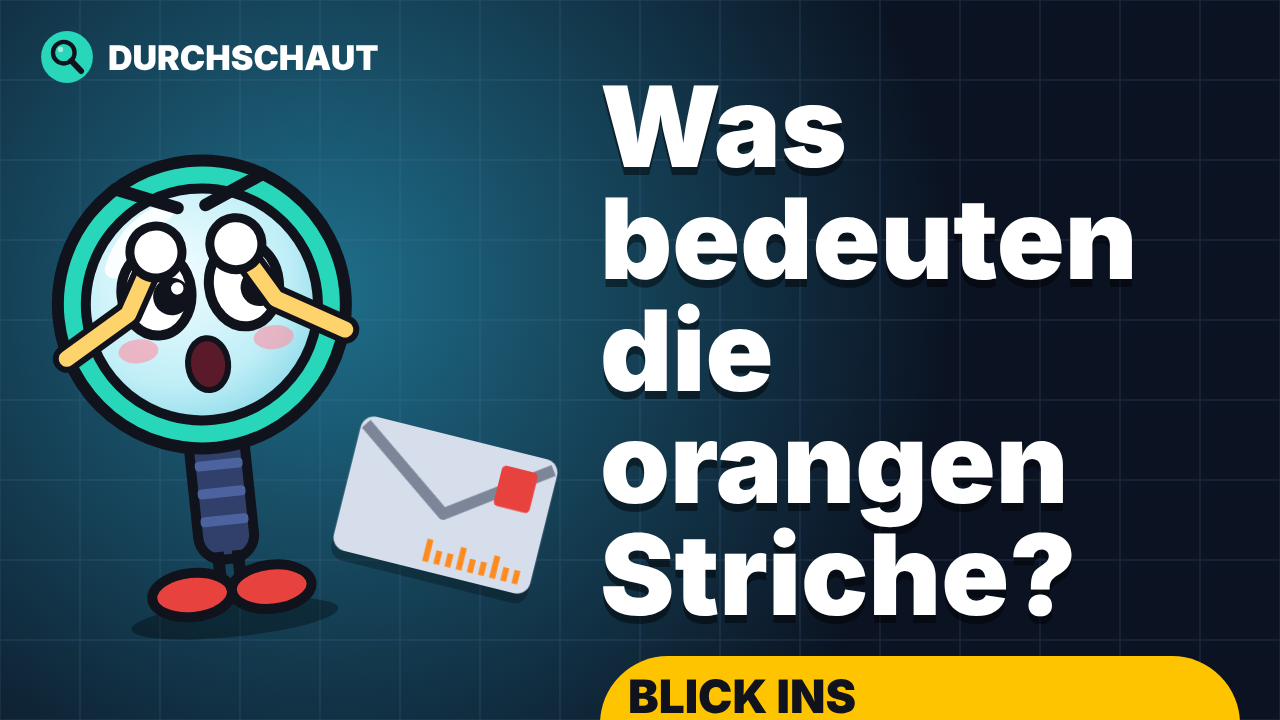
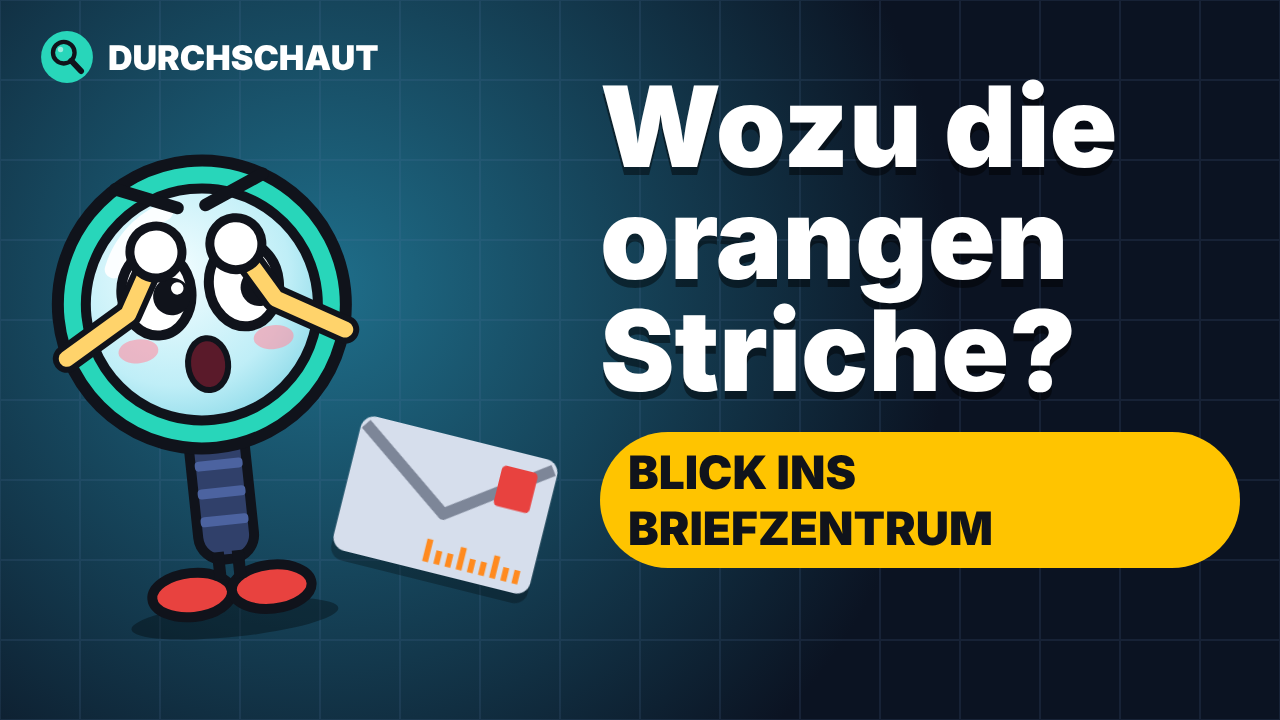
Brief: kürzere Thumbnail-Texte, Thema als erledigt eingetragen [skip ci]
Claude-Session: https://claude.ai/code/session_017quWLHGRvhi44CwfGne4Zi

Changed region(s): [[0.4688, 0.275, 0.9688, 1.0], [0.5625, 0.0917, 0.875, 0.2444]]

diff --git a/TOPICS.md b/TOPICS.md
@@ -11,11 +11,11 @@
 - 2026-11-21 Wie funktioniert eine Rolltreppe? (`08_rolltreppe`)
 - 2026-11-23 Wie funktioniert ein Kühlschrank? (`09_kuehlschrank`)
 - 2026-11-25 Wie funktioniert die Toilettenspülung? (`10_toilette`, Stimme aus Voice Studio)
+- 2026-11-27 Wie findet die Post deinen Brief? (`11_brief`, Spezialszene brief)
 
 ## Ideen
 - Wie weiß Google Maps, wo Stau ist?
 - Wie kommt der Strom in die Steckdose?
-- Wie findet die Post deinen Brief? (Briefzentrum)
 - Wie funktioniert ein Blitzer?
 - Wie funktioniert eine Waschmaschine, die das Gewicht der Wäsche erkennt?
 - Wie funktioniert der Kassenzettel-Drucker (Thermopapier)?
